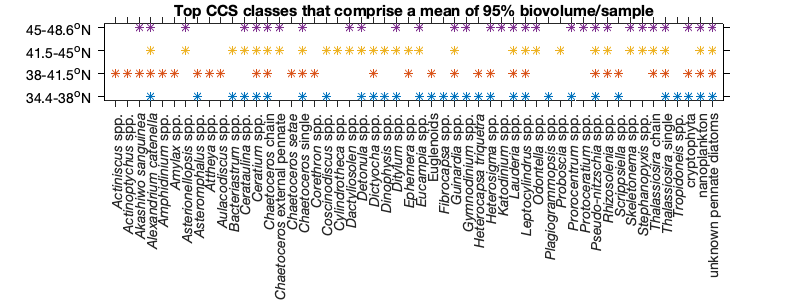
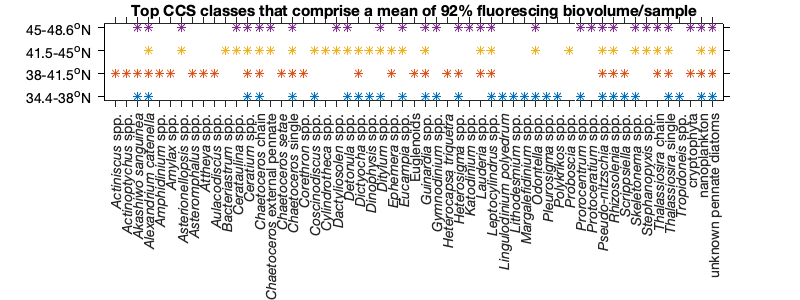
classifier performance

diff --git a/NOAA/Shimada/find_TopClasses_latitude.m b/NOAA/Shimada/find_TopClasses_latitude.m
@@ -20,25 +20,32 @@ dtI=[I19.dtI;I21.dtI]; latI=[I19.latI;I21.latI]; lonI=[I19.lonI;I21.lonI];
 filelistTB=[I19.filelistTB;I21.filelistTB];
 
 % load in IFCB manual files 
-load([filepath 'IFCB-Data/Shimada/manual/count_class_biovol_manual'],'class2use','classcount','classbiovol','filelist','matdate','ml_analyzed')
+load([filepath 'IFCB-Data/Shimada/manual/count_class_biovol_manual'],'class2use','classcount','classbiovol','filelist','ml_analyzed')
 cellsmli=classcount./ml_analyzed; %convert to cells/mL
 bvmli=classbiovol./ml_analyzed; %convert to biovol/mL
 filelisti=cellfun(@(X) X(1:end-4),({filelist.name})','Uniform',0);
+
+% exclude files with >un fx left unannotated
+total=sum(cellsmli,2); fx_un=cellsmli(:,1)./total; idx=find(fx_un>un);
+filelisti(idx)=[]; cellsmli(idx,:)=[]; bvmli(idx,:)=[]; 
 
 % match data with lat lon coordinates
 [filelistS,ia,ib]=intersect(filelisti,filelistTB);
 dt=dtI(ib); latS=latI(ib); lonS=lonI(ib); 
 cellsmlS=cellsmli(ia,:); bvmlS=bvmli(ia,:);
-
-clearvars filelisti classcount classbiovol filelist cellsmli bvmli dt latI lonI filelistTB ia ib I19 I21 dtI ml_analyzed matdate
+clearvars idx fx_un filelisti total classcount classbiovol filelist cellsmli bvmli dt latI lonI filelistTB ia ib I19 I21 dtI ml_analyzed 
 
 %%%% UCSC 
-load([filepath 'IFCB-Data/SCW/manual/count_class_biovol_manual'],'classcount','classbiovol','filelist','ml_analyzed','matdate')
+load([filepath 'IFCB-Data/SCW/manual/count_class_biovol_manual'],'classcount','classbiovol','filelist','ml_analyzed')
 cellsmli=classcount./ml_analyzed; %convert to cells/mL
 bvmli=classbiovol./ml_analyzed; %convert to biovol/mL
 filelistU=cellfun(@(X) X(1:end-4),({filelist.name})','Uniform',0);
 
-[idxSC] = convert_classnum_UCSC2NWFSC(1:width(classcount)); %convert classes
+% exclude files with >un fx left unannotated
+total=sum(bvmli,2); fx_un=bvmli(:,1)./total; idx=find(fx_un>un);
+filelistU(idx)=[]; cellsmli(idx,:)=[]; bvmli(idx,:)=[]; 
+
+[idxSC] = convert_classnum_UCSC2NWFSC(1:width(cellsmli)); %convert classes
 cellsmlU=NaN*ones(length(cellsmli),width(class2use));
 bvmlU=cellsmlU;
 for i=1:length(class2use)
@@ -46,10 +53,10 @@ for i=1:length(class2use)
     cellsmlU(:,i)=sum(cellsmli(:,idx),2);
     bvmlU(:,i)=sum(bvmli(:,idx),2);
 end
-latU=36.96149*ones(size(ml_analyzed));
-lonU=-122.02187*ones(size(ml_analyzed));
 
-clearvars classcount classbiovol cellsmli bvmli idx i idxSC ml_analyzed filelist
+latU=36.96149*ones(size(filelistU));
+lonU=-122.02187*ones(size(filelistU));
+clearvars classcount classbiovol cellsmli bvmli idx i idxSC ml_analyzed filelist fx_un total
 
 %%%% merge
 bvml=[bvmlU;bvmlS];
@@ -63,12 +70,6 @@ filelist(ia)=[]; cellsml(ia,:)=[]; bvml(ia,:)=[]; lat(ia)=[]; lon(ia)=[];
 clearvars bvmlU bvmlS cellsmlU cellsmlS latU latS lonU lonS filelistU filelistS ia
 
 %% class manipulation
-% exclude files with >un fx left unannotated
-total=sum(cellsml,2);
-fx_un=cellsml(:,1)./total;
-idx=find(fx_un>un);
-filelist(idx)=[]; lat(idx)=[]; lon(idx)=[]; cellsml(idx,:)=[]; bvml(idx,:)=[]; 
-
 % exlude nonliving data and select classes
 id1=get_class_ind(class2use,'nonliving',filepath);
 id2=get_class_ind(class2use,'zooplankton',filepath);
@@ -107,6 +108,7 @@ for i=1:n
     region(i).unbiovol=nansum(bvml(region(i).idx,irem));
 end
 
+%%
 %set unclassified to NaNs
 cellsml(:,irem)=NaN; bvml(:,irem)=NaN;
 
@@ -181,7 +183,7 @@ figure('Units','inches','Position',[1 1 8 3],'PaperPositionMode','auto');
 plot(1:length(class_label),[1*region(1).idxC 2*region(2).idxC 3*region(3).idxC 4*region(4).idxC],'*'); hold on
 set(gca,'ycolor','k','ylim',[.8 4.2],'ytick',1:length(region),'yticklabel', {region.label},...
     'xlim',[0 (length(class_label)+1)],'xtick', 1:length(class_label),'xticklabel', class_label,'tickdir','out'); hold on
-title(['Top CCS classes that comprise a mean of ' num2str(round(mean(100*[region.fxtotalcells]),0)) '% cells/sample'])
+title(['Top CCS classes that comprise a mean of ' num2str(round(mean(100*[region.fxtotalcells]),0)) '% fluorescing cells/sample'])
 
 % set figure parameters
 print(gcf,'-dpng','-r100',[filepath 'NOAA/Shimada/Figs/topclass_CCS_cellcount.png']);
@@ -194,7 +196,7 @@ figure('Units','inches','Position',[1 1 8 3],'PaperPositionMode','auto');
 plot(1:length(class_label),[1*region(1).idxB 2*region(2).idxB 3*region(3).idxB 4*region(4).idxB],'*'); hold on
 set(gca,'ycolor','k','ylim',[.8 4.2],'ytick',1:length(region),'yticklabel', {region.label},...
     'xlim',[0 (length(class_label)+1)],'xtick', 1:length(class_label),'xticklabel', class_label,'tickdir','out'); hold on
-title(['Top CCS classes that comprise a mean of ' num2str(round(mean(100*[region.fxtotalbiovol]),0)) '% biovolume/sample'])
+title(['Top CCS classes that comprise a mean of ' num2str(round(mean(100*[region.fxtotalbiovol]),0)) '% fluorescing biovolume/sample'])
 
 % set figure parameters
 print(gcf,'-dpng','-r100',[filepath 'NOAA/Shimada/Figs/topclass_CCS_biovolume.png']);

diff --git a/IFCB-Tools/determine_classifier_performance.m b/IFCB-Tools/determine_classifier_performance.m
@@ -78,8 +78,8 @@ optb=table(class(1:end-1),total,R,P,F1);
 
 clearvars TP TN FP FN total ind count i ii t j classes2 class Pm P R ind F1 totalfxun fxUnclass
 
-%% how did regional classifier do on Shimada dataset
-idx = contains(targets,{'IFCB777' 'IFCB117'});
+%% how did regional classifier do on NWFSC dataset
+idx = contains(targets,{'IFCB777' 'IFCB117' 'IFCB150'});
 MC=b.Y;
 [C, class] = confusionmat(MC(idx),Yfit(idx)); 
 [~,idx]=sort(class);class=class(idx);C=C(idx,idx);
@@ -109,8 +109,8 @@ end
 
 NOAA=table(class,total,R,P,F1);
 
-%% how did regional classifier do on Budd Inlet dataset
-idx = contains(targets,'IFCB150');
+%% how did regional classifier do on the OSU dataset
+idx = contains(targets,'IFCB122');
 MC=b.Y;
 [C, class] = confusionmat(MC(idx),Yfit(idx)); 
 [~,idx]=sort(class);class=class(idx);C=C(idx,idx);
@@ -122,23 +122,23 @@ P(P==0)=NaN;
 F1= 2*((P.*R)./(P+R));
 
 %find gaps, if they exist
-BI=all;
+OSU=all;
 [~,ib]=ismember(classes,class);
 for i=1:length(ib)
     if ib(i)>0
-        BI.total(i)= total(ib(i));
-        BI.R(i)= R(ib(i));
-        BI.P(i)= P(ib(i));        
-        BI.F1(i)= F1(ib(i));                
+        OSU.total(i)= total(ib(i));
+        OSU.R(i)= R(ib(i));
+        OSU.P(i)= P(ib(i));        
+        OSU.F1(i)= F1(ib(i));                
     else
-        BI.total(i)=0;
-        BI.R(i)=NaN;
-        BI.P(i)=NaN;        
-        BI.F1(i)=NaN;                
+        OSU.total(i)=0;
+        OSU.R(i)=NaN;
+        OSU.P(i)=NaN;        
+        OSU.F1(i)=NaN;                
     end
 end
 
-BI=table(class,total,R,P,F1);
+OSU=table(class,total,R,P,F1);
 
 %% how did regional classifier do on UCSC dataset
 idx = contains(targets,'IFCB104');
@@ -202,6 +202,6 @@ print(gcf,'-dtiff','-r200',[outpath 'Figs\class_vs_thresholdscores.png']);
 hold off
 
 save([outpath 'performance_classifier_' classifiername(37:end) ''],...
-    'topfeat','NOAA','UCSC','BI','all','opt','optb','c_all','c_opt','c_optb');
+    'topfeat','NOAA','UCSC','OSU','all','opt','optb','c_all','c_opt','c_optb');
 
 end

diff --git a/IFCB-Tools/plot_classifier_performance.m b/IFCB-Tools/plot_classifier_performance.m
@@ -4,7 +4,8 @@ Mac=1;
 %name='23Feb2022_nonano';
 %name='24Feb2022';
 %name='24Feb2022_noUCSCdinophysis';
-name='09May2022';
+%name='09May2022';
+name='10Jun2022';
 
 if Mac
     basepath = '~/Documents/MATLAB/bloom-baby-bloom/';    
@@ -17,17 +18,17 @@ else
 end
 addpath(genpath(basepath));
 
-load([filepath 'performance_classifier_' name],'topfeat','all','opt','c_all','c_opt','NOAA','UCSC','BI');
+load([filepath 'performance_classifier_' name],'topfeat','all','opt','c_all','c_opt','NOAA','UCSC','OSU');
     
 %% plot stacked total in set
 figure('Units','inches','Position',[1 1 7 4],'PaperPositionMode','auto');
-b = bar([NOAA.total BI.total UCSC.total],'stack','Barwidth',.7);
+b = bar([NOAA.total OSU.total UCSC.total],'stack','Barwidth',.7);
 col=brewermap(3,'Dark2'); %col=[[.3 .3 .3];col];
 for i=1:length(b)
     set(b(i),'FaceColor',col(i,:));
 end  
     
-legend('Shimada','Budd/Lab','UCSC','Location','NW');
+legend('NWFSC','OSU','UCSC','Location','NW');
 
 [~,classp]=get_class_ind( all.class, 'all', basepath);
 set(gca, 'xtick', 1:length(classp), 'xticklabel', classp,'tickdir','out');
@@ -35,7 +36,7 @@ ylabel('total images in set');
 xtickangle(45);
 
 set(gcf,'color','w');
-print(gcf,'-dpng','-r200',[figpath 'total_UCSC_NWFSC.png']);
+print(gcf,'-dpng','-r200',[figpath 'total_UCSC_NWFSC_OSU.png']);
 hold off
 
 %% Winner takes All
